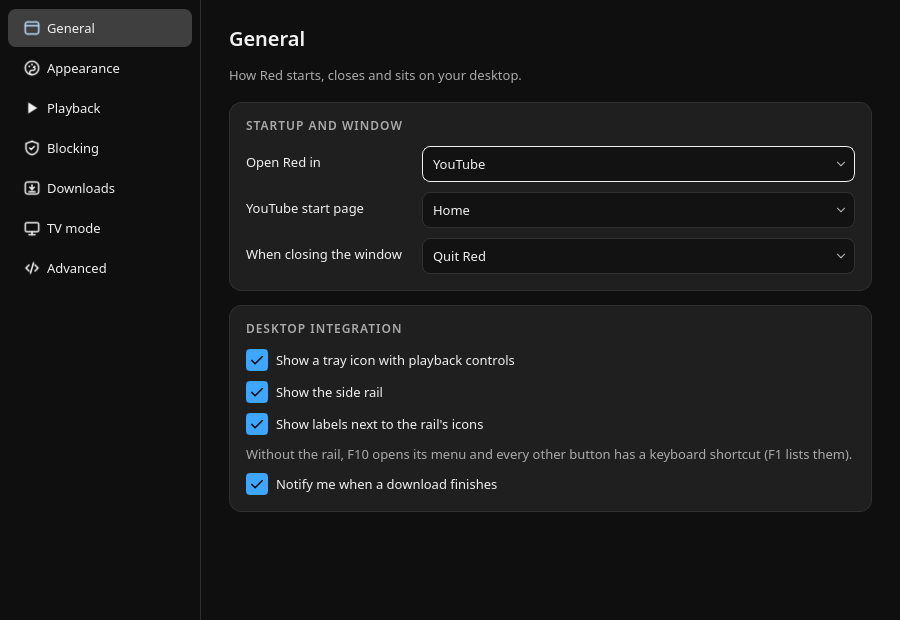
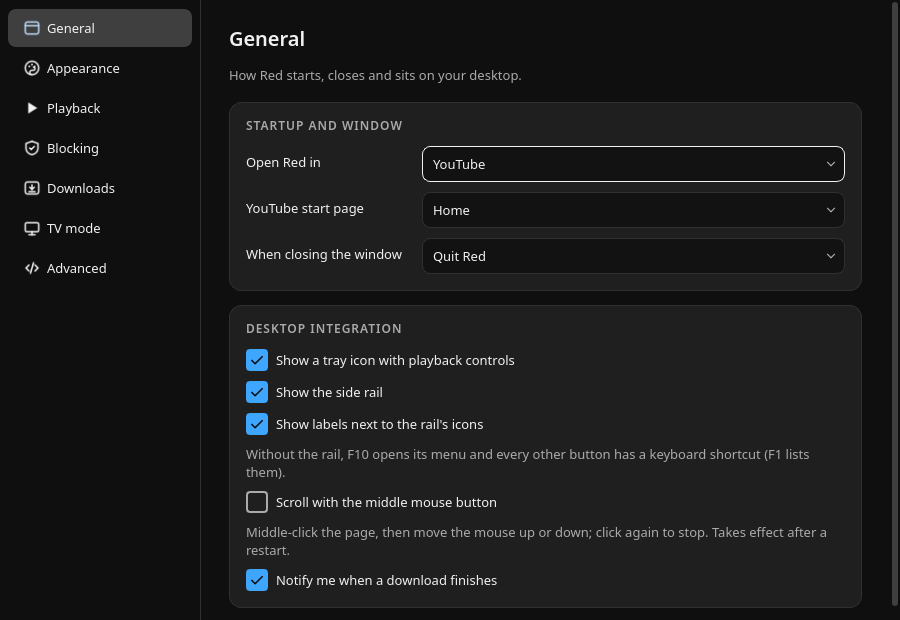
settings: middle-click scrolling; General choices survive a restart
Public issue #17: Settings, General, "Scroll with the middle mouse
button" passes Chromium's MiddleClickAutoscroll Blink feature at start
(off by default: middle-click pastes on Linux). mergeChromiumFlags merges
Blink feature lists with the user's own.

Found while testing it: QSettings' INI format writes the general/ group as
[%General] and reads it back as General/, so the start page, the start
mode, download notifications and the tray icon were saved but never read
after a restart (since 10.0). The keys move to app/ and Settings migrates
the old values once. tst_settings reads hand-written files now, so the
per-process QSettings cache cannot hide this again. ADR-019. 10.3.0 notes,
metainfo, guide and its General screenshot updated.

Changed region(s): [[0.9644, 0.0, 1.0, 0.9806], [0.2489, 0.7355, 0.9022, 0.9806], [0.9022, 0.7048, 0.9333, 0.7355]]

diff --git a/tests/tst_settings.cpp b/tests/tst_settings.cpp
@@ -1,5 +1,6 @@
 #include "core/settings/settings.h"
 
+#include <QFile>
 #include <QSettings>
 #include <QSignalSpy>
 #include <QTemporaryDir>
@@ -54,7 +55,8 @@ private Q_SLOTS:
         QVERIFY(m_settings->tvFullscreen());
         QVERIFY(m_settings->tvGamepad());
         QCOMPARE(m_settings->lastMode(), AppMode::Desktop);
-        QVERIFY(m_settings->railLabels()); // new users see what each rail button is
+        QVERIFY(m_settings->railLabels());         // new users see what each rail button is
+        QVERIFY(!m_settings->middleClickScroll()); // Linux pastes with the middle button
         QSignalSpy labels(m_settings.get(), &Settings::railLabelsChanged);
         m_settings->setRailLabels(false);
         m_settings->setRailLabels(false);
@@ -142,6 +144,55 @@ private Q_SLOTS:
         m_settings->setWelcomeSeen(false);
         m_settings->setWhatsNewSeenVersion(u"10.2.0"_s); // an upgrade from a Red 10 with release notes
         QVERIFY(!m_settings->isFirstRun());
+    }
+
+    void generalGroupSurvivesARestart()
+    {
+        // QSettings' INI format reads a "[general]" section as its special
+        // "[General]" (keys without a group): the general/ keys must still
+        // come back after a restart.
+        m_settings->setStartMode(StartMode::Music);
+        m_settings->setStartPage(StartPage::Subscriptions);
+        m_settings->setMiddleClickScroll(true);
+        m_settings->setNotifyOnDownloadFinish(false);
+        m_settings->sync();
+        Settings again(m_dir->filePath(u"red.ini"_s));
+        QCOMPARE(again.startMode(), StartMode::Music);
+        QCOMPARE(again.startPage(), StartPage::Subscriptions);
+        QVERIFY(again.middleClickScroll());
+        QVERIFY(!again.notifyOnDownloadFinish());
+    }
+
+    void generalGroupReadFromDisk()
+    {
+        // What 10.2 and earlier left on disk for Settings, General: migrated,
+        // so the user's choices come back (a fresh file, no in-process cache).
+        const QString path = m_dir->filePath(u"written-earlier.ini"_s);
+        {
+            QFile f(path);
+            QVERIFY(f.open(QIODevice::WriteOnly));
+            f.write("[%General]\nmiddleClickScroll=true\nstartPage=1\n");
+        }
+        Settings fresh(path);
+        QCOMPARE(fresh.startPage(), StartPage::Subscriptions);
+        QVERIFY(fresh.middleClickScroll());
+    }
+
+    void appGroupReadFromDisk()
+    {
+        // The app/ keys written to disk come back in a fresh store.
+        const QString path = m_dir->filePath(u"written-now.ini"_s);
+        {
+            Settings writer(path);
+            writer.setStartMode(StartMode::Tv);
+            writer.setTrayEnabled(false);
+            writer.sync();
+        }
+        QFile f(path);
+        QVERIFY(f.open(QIODevice::ReadOnly));
+        const QByteArray text = f.readAll();
+        QVERIFY(text.contains("[app]"));
+        QVERIFY(!text.contains("General"));
     }
 
     void startModeMigratesStartInTv()

diff --git a/src/core/settings/settings.cpp b/src/core/settings/settings.cpp
@@ -23,6 +23,7 @@ constexpr bool kDefaultRailLabels = true; ///< new users see what each button is
 constexpr AppMode kDefaultMode = AppMode::Desktop;
 constexpr bool kDefaultDownloadsPanelOpen = false;
 constexpr StartMode kDefaultStartMode = StartMode::Desktop;
+constexpr bool kDefaultMiddleClickScroll = false;
 constexpr StartPage kDefaultStartPage = StartPage::Home;
 constexpr bool kDefaultNotifyOnDownloadFinish = true;
 constexpr bool kDefaultTrayEnabled = true;
@@ -94,6 +95,7 @@ Settings::Settings(QObject* parent)
     , m_store(std::make_unique<QSettings>())
 {
     qCDebug(lcSettings) << "settings store:" << m_store->fileName();
+    migrateGeneralGroup();
 }
 
 Settings::Settings(const QString& iniFilePath, QObject* parent)
@@ -101,6 +103,27 @@ Settings::Settings(const QString& iniFilePath, QObject* parent)
     , m_store(std::make_unique<QSettings>(iniFilePath, QSettings::IniFormat))
 {
     qCDebug(lcSettings) << "settings store (ini):" << m_store->fileName();
+    migrateGeneralGroup();
+}
+
+/// Up to 10.2 Settings, General lived under "general/", which QSettings'
+/// INI format writes as [%General] and reads back as "General/": the values
+/// were on disk but never found. Move them to "app/" once, keeping the user's
+/// choices (a value already under "app/" wins).
+void Settings::migrateGeneralGroup()
+{
+    for (const QLatin1StringView key : {keys::kStartMode, keys::kStartPage, keys::kMiddleClickScroll,
+                                        keys::kNotifyOnDownloadFinish, keys::kTrayEnabled}) {
+        const QString name = QString(key).section(u'/', 1);
+        for (const QString& old : QStringList{u"General/"_s + name, u"general/"_s + name}) {
+            if (m_store->contains(old)) {
+                if (!m_store->contains(key)) {
+                    m_store->setValue(key, m_store->value(old));
+                }
+                m_store->remove(old);
+            }
+        }
+    }
 }
 
 Settings::~Settings()
@@ -295,6 +318,18 @@ AppMode Settings::startupMode() const
         break;
     }
     return AppMode::Desktop;
+}
+
+bool Settings::middleClickScroll() const
+{
+    return boolValue(keys::kMiddleClickScroll, kDefaultMiddleClickScroll);
+}
+
+void Settings::setMiddleClickScroll(bool enabled)
+{
+    if (storeBool(keys::kMiddleClickScroll, kDefaultMiddleClickScroll, enabled)) {
+        Q_EMIT middleClickScrollChanged(enabled);
+    }
 }
 
 StartPage Settings::startPage() const
@@ -1022,6 +1057,7 @@ void Settings::resetToDefaults()
     Q_EMIT railLabelsChanged(railLabels());
     Q_EMIT startModeChanged(startMode());
     Q_EMIT startPageChanged(startPage());
+    Q_EMIT middleClickScrollChanged(middleClickScroll());
     Q_EMIT notifyOnDownloadFinishChanged(notifyOnDownloadFinish());
     Q_EMIT trayEnabledChanged(trayEnabled());
     Q_EMIT themeChanged(theme());

diff --git a/src/core/chromium_flags.cpp b/src/core/chromium_flags.cpp
@@ -21,7 +21,8 @@ bool useSoftwareGpu(HardwareAcceleration acceleration, bool autoDisabled)
     return autoDisabled;
 }
 
-QStringList chromiumFlags(HardwareAcceleration acceleration, bool gpuAutoDisabled, bool hardwareVideoDecode)
+QStringList chromiumFlags(HardwareAcceleration acceleration, bool gpuAutoDisabled, bool hardwareVideoDecode,
+                          bool middleClickScroll)
 {
     QStringList flags{
         u"--disable-translate"_s,
@@ -54,6 +55,11 @@ QStringList chromiumFlags(HardwareAcceleration acceleration, bool gpuAutoDisable
     if (!features.isEmpty()) {
         flags << u"--enable-features="_s + features.join(u',');
     }
+    if (middleClickScroll) {
+        // Blink's own autoscroll: the marker, the speed and the stop rules
+        // are Chromium's. Verified in Qt WebEngine 6.11 (2026-10-17).
+        flags << u"--enable-blink-features=MiddleClickAutoscroll"_s;
+    }
     if (useSoftwareGpu(acceleration, gpuAutoDisabled)) {
         // Whole GPU process off: the stable choice for broken drivers. Video
         // then composites in software, which is fine up to 1080p on any
@@ -67,11 +73,13 @@ QStringList chromiumFlags(HardwareAcceleration acceleration, bool gpuAutoDisable
 
 namespace {
 
-// Chromium keeps only the last --enable-features/--disable-features switch,
-// so their comma lists must be merged instead of appended.
+// Chromium keeps only the last --enable-features/--disable-features switch
+// (the Blink feature switches too), so their comma lists must be merged
+// instead of appended.
 bool isFeatureList(const QString& flag, QString* key, QStringList* values)
 {
-    for (const auto& prefix : {u"--enable-features="_s, u"--disable-features="_s}) {
+    for (const auto& prefix : {u"--enable-features="_s, u"--disable-features="_s,
+                               u"--enable-blink-features="_s, u"--disable-blink-features="_s}) {
         if (flag.startsWith(prefix)) {
             *key = prefix;
             *values = flag.mid(prefix.size()).split(u',', Qt::SkipEmptyParts);

diff --git a/src/ui/settings_dialog.cpp b/src/ui/settings_dialog.cpp
@@ -265,6 +265,13 @@ QWidget* SettingsDialog::buildGeneral()
     v->addWidget(mutedLabel(tr("Without the rail, F10 opens its menu and every other button has a keyboard "
                                "shortcut (F1 lists them)."),
                             integration));
+    m_middleScroll = new QCheckBox(tr("Scroll with the middle mouse button"), integration);
+    connect(m_middleScroll, &QCheckBox::toggled, this,
+            [this](bool on) { m_settings.setMiddleClickScroll(on); });
+    v->addWidget(m_middleScroll);
+    v->addWidget(mutedLabel(tr("Middle-click the page, then move the mouse up or down; click again to stop. "
+                               "Takes effect after a restart."),
+                            integration));
     m_notify = new QCheckBox(tr("Notify me when a download finishes"), integration);
     connect(m_notify, &QCheckBox::toggled, this,
             [this](bool on) { m_settings.setNotifyOnDownloadFinish(on); });
@@ -758,6 +765,7 @@ void SettingsDialog::loadValues()
     m_railLabels->setChecked(m_settings.railLabels());
     m_railLabels->setEnabled(m_settings.showRail());
     m_notify->setChecked(m_settings.notifyOnDownloadFinish());
+    m_middleScroll->setChecked(m_settings.middleClickScroll());
     m_theme_->setCurrentIndex(m_theme_->findData(static_cast<int>(m_settings.theme())));
     m_zoom->setValue(m_settings.zoomFactor() * 100);
     m_scale->setValue(m_settings.interfaceScale() * 100);

diff --git a/src/core/settings/settings.h b/src/core/settings/settings.h
@@ -193,6 +193,11 @@ public:
     void setStartMode(StartMode mode);
     /// The mode a launch opens in: startMode() with LastUsed resolved.
     [[nodiscard]] AppMode startupMode() const;
+    /// Middle-click on the page starts scrolling (public issue #17), a
+    /// Chromium switch read at start. Off by default: on Linux middle-click
+    /// pastes.
+    [[nodiscard]] bool middleClickScroll() const;
+    void setMiddleClickScroll(bool enabled);
     [[nodiscard]] StartPage startPage() const;
     void setStartPage(StartPage page);
     [[nodiscard]] bool notifyOnDownloadFinish() const;
@@ -346,6 +351,7 @@ Q_SIGNALS:
     void railLabelsChanged(bool show);
     void startModeChanged(red::core::StartMode mode);
     void startPageChanged(red::core::StartPage page);
+    void middleClickScrollChanged(bool enabled);
     void notifyOnDownloadFinishChanged(bool enabled);
     void trayEnabledChanged(bool enabled);
     void themeChanged(red::core::Theme theme);
@@ -374,6 +380,7 @@ Q_SIGNALS:
 
 private:
     [[nodiscard]] bool boolValue(QLatin1StringView key, bool def) const;
+    void migrateGeneralGroup();
     bool storeBool(QLatin1StringView key, bool def, bool value);
     [[nodiscard]] int intValue(QLatin1StringView key, int def) const;
     bool storeInt(QLatin1StringView key, int def, int value);

diff --git a/src/core/settings/settings_keys.h b/src/core/settings/settings_keys.h
@@ -22,11 +22,14 @@ inline constexpr QLatin1StringView kLastUrl{"window/lastUrl"};
 inline constexpr QLatin1StringView kLastMusicUrl{"window/lastMusicUrl"};
 inline constexpr QLatin1StringView kDownloadsPanelOpen{"window/downloadsPanelOpen"};
 
-// general/
-inline constexpr QLatin1StringView kStartMode{"general/startMode"};
-inline constexpr QLatin1StringView kStartPage{"general/startPage"};
-inline constexpr QLatin1StringView kNotifyOnDownloadFinish{"general/notifyOnDownloadFinish"};
-inline constexpr QLatin1StringView kTrayEnabled{"general/trayEnabled"};
+// app/ (Settings, General). Not "general/": QSettings' INI format writes that
+// group as [%General] and reads it back as "General/", so up to 10.2 these
+// were saved but never read after a restart; Settings migrates them.
+inline constexpr QLatin1StringView kStartMode{"app/startMode"};
+inline constexpr QLatin1StringView kStartPage{"app/startPage"};
+inline constexpr QLatin1StringView kMiddleClickScroll{"app/middleClickScroll"};
+inline constexpr QLatin1StringView kNotifyOnDownloadFinish{"app/notifyOnDownloadFinish"};
+inline constexpr QLatin1StringView kTrayEnabled{"app/trayEnabled"};
 
 // appearance/
 inline constexpr QLatin1StringView kTheme{"appearance/theme"};

diff --git a/tests/tst_storage_and_flags.cpp b/tests/tst_storage_and_flags.cpp
@@ -95,6 +95,14 @@ private Q_SLOTS:
         QVERIFY(!autoFlags.contains(u"--ignore-gpu-blocklist"_s));
         QVERIFY(autoFlags.contains(u"--disable-extensions"_s));
         QVERIFY(chromiumFlags(HardwareAcceleration::On).contains(u"--ignore-gpu-blocklist"_s));
+        QVERIFY(!chromiumFlags(HardwareAcceleration::Auto).join(u' ').contains(u"MiddleClickAutoscroll"_s));
+        QVERIFY(chromiumFlags(HardwareAcceleration::Auto, false, false, true)
+                    .contains(u"--enable-blink-features=MiddleClickAutoscroll"_s));
+        // A user's own Blink switch is merged, not overridden (Chromium keeps the last one).
+        const QString merged = mergeChromiumFlags(u"--enable-blink-features=Foo"_s,
+                                                  {u"--enable-blink-features=MiddleClickAutoscroll"_s});
+        QCOMPARE(merged.count(u"--enable-blink-features="_s), 1);
+        QVERIFY(merged.contains(u"Foo"_s) && merged.contains(u"MiddleClickAutoscroll"_s));
         // GPU-off fully disables the GPU process (ADR-032) — the only thing that
         // avoids the Wayland screen-capture EGL_BAD_DISPLAY hang.
         const QStringList off = chromiumFlags(HardwareAcceleration::Off);

diff --git a/src/core/chromium_flags.h b/src/core/chromium_flags.h
@@ -16,8 +16,10 @@ enum class HardwareAcceleration;
 /// value of that variable is kept and ours are merged in.
 ///  * hardwareVideoDecode — FEATURES D5: opt-in VA-API decode (Linux); off
 ///    keeps Chromium's CPU decode, which is the stable default on Linux.
+///  * middleClickScroll: middle-click autoscroll (public issue #17), which
+///    Chromium keeps off on Linux (middle-click pastes there).
 [[nodiscard]] QStringList chromiumFlags(HardwareAcceleration acceleration, bool gpuAutoDisabled = false,
-                                        bool hardwareVideoDecode = false);
+                                        bool hardwareVideoDecode = false, bool middleClickScroll = false);
 
 /// Merges `userFlags` (existing env var content) with ours, deduplicated.
 [[nodiscard]] QString mergeChromiumFlags(const QString& userFlags, const QStringList& ours);

diff --git a/src/app/application.cpp b/src/app/application.cpp
@@ -158,8 +158,9 @@ void Application::applyChromiumFlags()
     // Must happen before the first QWebEngineProfile is created.
     evaluateGpuStability();
     const QString existing = qEnvironmentVariable("QTWEBENGINE_CHROMIUM_FLAGS");
-    QStringList ours = core::chromiumFlags(m_settings->hardwareAcceleration(), m_settings->gpuAutoDisabled(),
-                                           m_settings->hardwareVideoDecode());
+    QStringList ours =
+        core::chromiumFlags(m_settings->hardwareAcceleration(), m_settings->gpuAutoDisabled(),
+                            m_settings->hardwareVideoDecode(), m_settings->middleClickScroll());
     // In a snap we pass --no-sandbox here (isolation comes from snap
     // confinement, W-ADR-008) and merge the user's value so the expert escape
     // hatch keeps working inside the snap.

diff --git a/src/ui/settings_dialog.h b/src/ui/settings_dialog.h
@@ -102,6 +102,7 @@ private:
     QCheckBox* m_trayEnabled = nullptr;
     QCheckBox* m_showRail = nullptr;
     QCheckBox* m_railLabels = nullptr;
+    QCheckBox* m_middleScroll = nullptr;
     QCheckBox* m_notify = nullptr;
     // appearance
     QComboBox* m_theme_ = nullptr;

diff --git a/packaging/public/GUIDE.md b/packaging/public/GUIDE.md
@@ -104,6 +104,11 @@ the corner (it appears when you move the mouse), the window's close button, or C
 again. Closing the mini player never quits Red. *Settings → Playback* sets its size: small,
 medium or large.
 
+**Middle-click scrolling**: turn on *Settings → General → Scroll with the middle mouse button*
+(it takes effect after a restart). Then middle-click the page and move the mouse up or down; the
+further from where you clicked, the faster it scrolls. Click again to stop. It is off by default
+because on Linux the middle button pastes.
+
 **Screen** stays awake while a video plays, and playback keeps going while the window is hidden
 or minimised. Both are switches in *Settings → Playback*.
 
@@ -275,7 +280,8 @@ Press **Ctrl+,** or the rail's gear.
 
 - **General**: the mode Red opens in (YouTube by default, YouTube Music, TV mode, or the mode
   you used last), the YouTube start page (Home, Subscriptions, or where you left off), what
-  closing the window does, tray icon, side rail and its labels, download notifications.
+  closing the window does, tray icon, side rail and its labels, middle-click scrolling, download
+  notifications.
 - **Appearance**: theme, page zoom, interface scale.
 - **Playback**: autoplay, preferred codec, hardware decoding, screen and background playback,
   a playback progress bar behind Red's taskbar entry (off by default; Plasma and Unity-style
@@ -358,7 +364,8 @@ Support* extension is installed. KDE, Cinnamon, XFCE and MATE show it out of the
 desktop's portals for both; make sure `xdg-desktop-portal` and the portal backend for your
 desktop (`-gtk`, `-kde`, `-gnome`) are installed.
 
-**Media keys do nothing.** Another player may have claimed them; pause or close it. On GNOME
+**Media keys do nothing.** Another player may have claimed them; pause or close it. In YouTube
+Music, Next and Previous work from the desktop's media controls and headsets since 10.3.0. On GNOME
 the *Sound* or *Media* keys also need to be bound in the keyboard settings.
 
 **Something else.** *About Red → Copy* puts the diagnostics (versions, GPU, engine state) on

diff --git a/CHANGELOG.md b/CHANGELOG.md
@@ -33,6 +33,9 @@ versions follow [Semantic Versioning](https://semver.org/).
   Menu key) and are read out by screen readers. A failed download shows its whole reason.
 - Settings confirms Clear cache, Copy diagnostics, Reset site permissions and Reset all settings
   right under the buttons.
+- **Middle-click scrolling**: Settings, General, *Scroll with the middle mouse button*. Middle-click
+  the page and move the mouse to scroll; click again to stop. Off by default, since middle-click
+  pastes on Linux; takes effect after a restart.
 
 ### Changed
 - Red opens in YouTube unless set otherwise, instead of in whichever mode was open when it
@@ -47,6 +50,10 @@ versions follow [Semantic Versioning](https://semver.org/).
   buttons, and YouTube blue for check boxes and selections.
 
 ### Fixed
+- In YouTube Music, Next and Previous could show as unavailable, so the desktop's media controls,
+  the tray and Bluetooth headsets could not skip tracks.
+- Choices in Settings, General (the start page, the tray icon, download notifications) were
+  forgotten after a restart. Earlier choices are picked up again.
 - Closing the mini player's window returns to the full window instead of quitting Red.
 - Download progress bars move smoothly instead of jumping every second or so.
 - With *Advanced* picked and no stream chosen yet, the download dialog previewed an audio file
